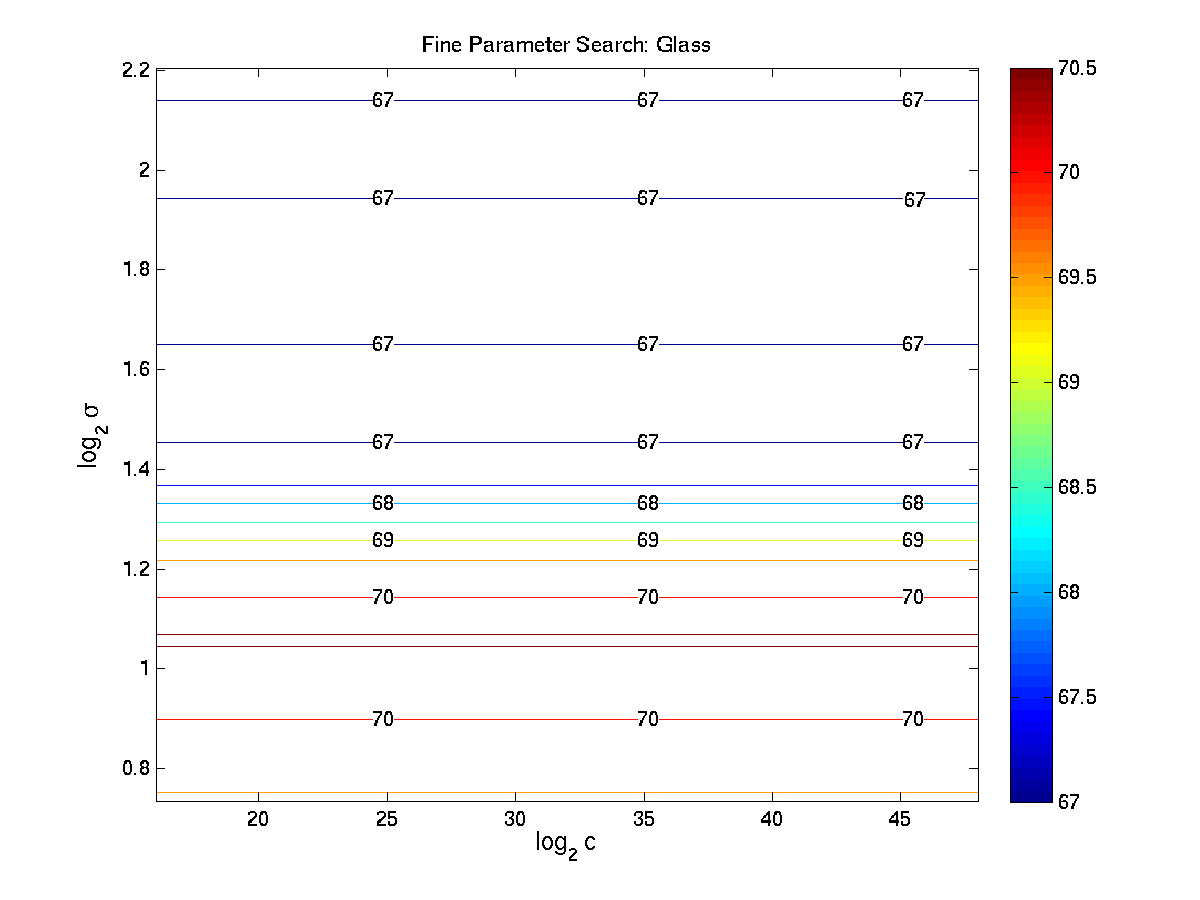
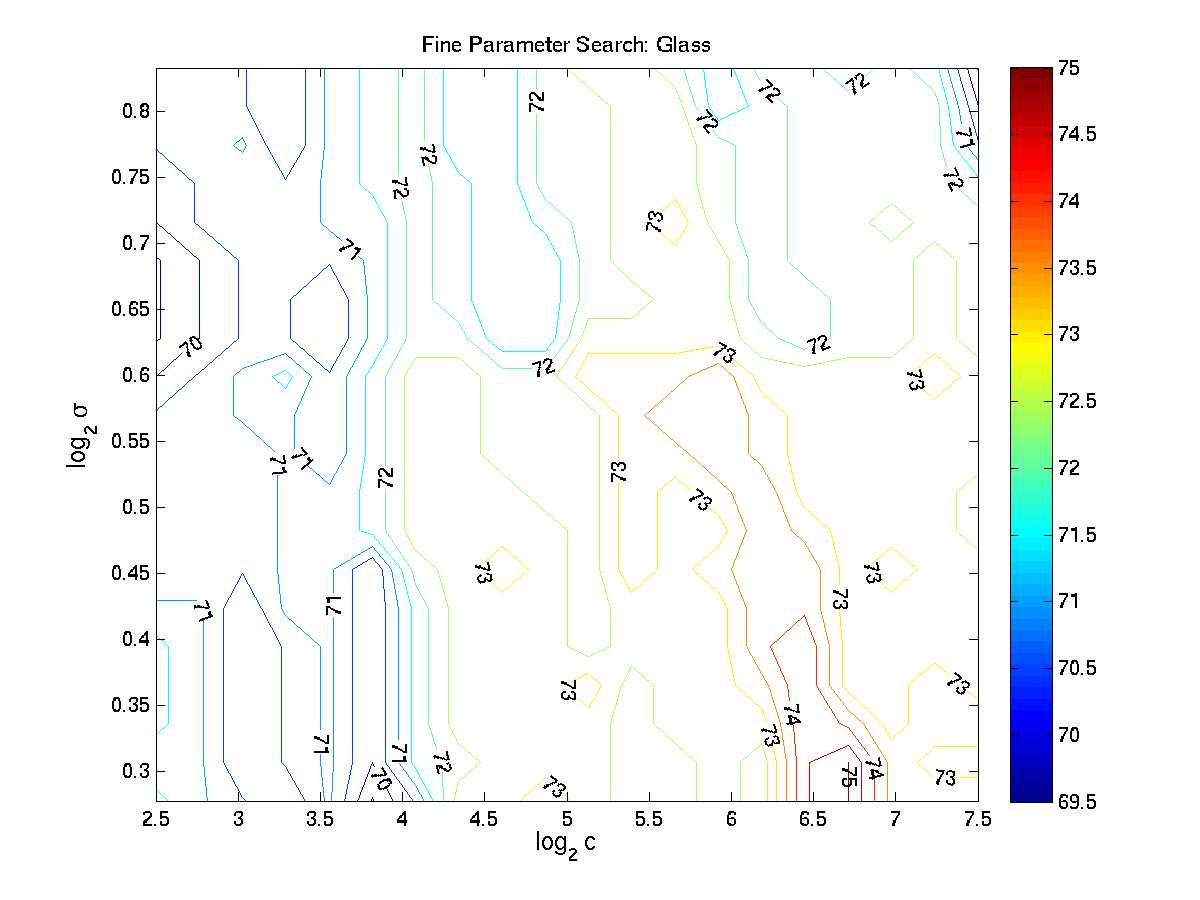
Fixed the bug in Part1

diff --git a/trunk/CS-528/Project4-SVM/Part1.m b/trunk/CS-528/Project4-SVM/Part1.m
@@ -4,13 +4,12 @@
 % Using LibSVM to find ideal C and gamma values
 SVMMatlabSetup
 ProjectSetup
-f = fopen('GridSearchOutput.txt','w');
+f = fopen('CoarseGridSearchOutput.dat','w');
 
 %% Corse Grid Search
 n  = 10;
-fprintf(f,'Coarse Grid Search with %d values\n',n^2);
-fprintf(f,'Coarse Grid Search\n');
-fprintf(f,'\t\t\tDataSet\t\t\t\tminC\tmaxC\tminG\tmaxGAccuracy\tg\t\tc\n');
+fprintf(f,'Data Set & $C_{min}$ & $C_{max}$ & $\\sigma_{min}$ & $\\sigma_{max}$ & $C$ & $\\sigma$ & $\\epsilon$ \\\\ \n');
+fprintf(f,'\\hline\n');
 c_coarse = zeros(size(dataSets));
 g_coarse = zeros(size(dataSets));
 i = 1;
@@ -26,8 +25,8 @@ for data = dataSets
   
     
     % Writing the values
-    fprintf(f,'%s\t%5.3e\t%5.3e\t%5.3e\t%5.3e\t%5.3e\t%5.3e\t%5.3e\n',...
-        setNames{i},min(c),max(c),min(g),max(g),cv,c_coarse(i),g_coarse(i));
+    fprintf(f,'%s & %3.2f & %3.2f & %3.2f & %3.2f & %3.2f & %3.2f & %3.2f \\\\ \n',...
+        setNames{i},min(c),max(c),min(g),max(g),c_coarse(i),g_coarse(i),cv);
     
     % Save the figure
     title(sprintf('Coarse Parameter Search: %s',setNames{i}));
@@ -36,14 +35,16 @@ for data = dataSets
     
     i = i + 1;
 end
+fclose(f);
 
 %% Fine Grid Search
+f = fopen('FineGridSearchOutput.dat','w');
 c_fine = zeros(size(dataSets));
 g_fine = zeros(size(dataSets));
 i = 1;
-n  = 10;
-fprintf(f,'\nFine Grid Search with %d values\n',n^2);
-fprintf(f,'\t\t\tDataSet\t\t\t\tminC\tmaxC\tminG\tmaxGAccuracy\tg\t\tc\n');
+n  = 20;
+fprintf(f,'Data Set & $C_{min}$ & $C_{max}$ & $\\sigma_{min}$ & $\\sigma_{max}$ & $C$ & $\\sigma$ & $\\epsilon$ \\\\ \n');
+fprintf(f,'\\hline\n');
 for data = dataSets
     fprintf(1,'Processing data set: %s\n',cell2mat(dataSets(i)));
     % Reading in the data
@@ -56,8 +57,9 @@ for data = dataSets
     [cv,c_fine(i),g_fine(i)] = gridParam(c,g,label,inst);
     
     % Writing the values
-    fprintf(f,'%s\t%5.3e\t%5.3e\t%5.3e\t%5.3e\t%5.3e\t%5.3e\t%5.3e\n',...
-        setNames{i},min(c),max(c),min(g),max(g),cv,c_fine(i),g_fine(i));
+
+    fprintf(f,'%s & %3.2f & %3.2f & %3.2f & %3.2f & %3.2f & %3.2f & %3.2f \\\\ \n',...
+        setNames{i},min(c),max(c),min(g),max(g),c_fine(i),g_fine(i),cv);
     
     % Save the figure
     title(sprintf('Fine Parameter Search: %s',setNames{i}));
@@ -65,6 +67,5 @@ for data = dataSets
     print(gcf,'-dpng',filename);
     i = i + 1;
 end
-
-%% Probably need to do validation
 fclose(f);
+%% Probably need to do validation

diff --git a/trunk/CS-528/Project4-SVM/writeup/Results.tex b/trunk/CS-528/Project4-SVM/writeup/Results.tex
@@ -6,29 +6,28 @@
 The parameter search for the optimal C and $\sigma$ parameters is shown in the contour plots of Figures \ref{fig:ParamLiver}, \ref{fig:ParamGlass} and \ref{fig:ParamGlass}.
 The optimal classifier parameters are shown for the coarse parameter search in Table \ref{tab:CoarseParamValues} and for the fine parameter search in Table \ref{tab:FineParamValues}.
 \todo{Make some quantifications and discuss the data}
-\begin{table}[ht!]
+\begin{table}[h!]
 \caption{Coarse Optimal Classifier Parameters}
 \label{tab:CoarseParamValues}
 \begin{tabular}{c c c c c c c c}
 \hline
-Data Set & $C_{min}$ & $C_{max}$ & $\sigma_{min}$ & $\sigma_{max}$ & $C$ & $\sigma$ & $\epsilon$ \\
+Data Set & $C_{min}$ & $C_{max}$ & $\sigma_{min}$ & $\sigma_{max}$ & $C$ & $\sigma$ & $\epsilon$ \\ 
 \hline
-Glass &	-5.0 &  5.0 &	-5.0 &	5.0 & 32.0 &	1.47 & 73 \\
-Liver &	-5.0 &	5.0 &	-5.0 &	5.0 & 14.8 &	0.146 & 74 \\
-Vowel &	-5.0 &	5.0 &	-5.0 &	5.0 & 32.0 &	6.85  & 99 \\
+Glass & -5.00 & 5.00 & -5.00 & 5.00 & 5.00 & 0.56 & 72.78 \\ 
+Liver & -5.00 & 5.00 & -5.00 & 5.00 & 3.89 & -2.78 & 74.33 \\ 
+Vowel & -5.00 & 5.00 & -5.00 & 5.00 & 5.00 & 2.78 & 99.24 \\ 
 \hline
 \end{tabular}
 \end{table}
-\begin{table}[ht!]
+\begin{table}[ht]
 \caption{Fine Optimal Classifier Parameters}
 \label{tab:FineParamValues}
 \begin{tabular}{c c c c c c c c}
+Data Set & $C_{min}$ & $C_{max}$ & $\sigma_{min}$ & $\sigma_{max}$ & $C$ & $\sigma$ & $\epsilon$ \\ 
 \hline
-Data Set & $C_{min}$ & $C_{max}$ & $\sigma_{min}$ & $\sigma_{max}$ & $C$ & $\sigma$ & $\epsilon$ \\
-\hline
-Glass & 16.0 &	48.0 &	0.735 & 2.20 & 2.815e+14	& 2.09 & 70.6 \\
-Liver & 7.41 &	22.2 &	0.0729 & 0.218 &	1.697e+02 &	1.11 & 68.0 \\
-Vowel & 16.0 &	48.0 & 3.43 & 10.3 &	2.815e+14 &	10.7 & 96.9 \\
+Glass & 2.50 & 7.50 & 0.28 & 0.83 & 6.71 & 0.31 & 75.00 \\ 
+Liver & 1.94 & 5.83 & -4.17 & -1.39 & 3.79 & -1.68 & 75.67 \\ 
+Vowel & 2.50 & 7.50 & 1.39 & 4.17 & 7.50 & 1.97 & 99.43 \\ 
 \hline
 \end{tabular}
 \end{table}

diff --git a/trunk/CS-528/Project4-SVM/writeup/murffer-Project4-Paper.tex b/trunk/CS-528/Project4-SVM/writeup/murffer-Project4-Paper.tex
@@ -61,9 +61,10 @@
 \usepackage{algorithm}
 \algnewcommand{\algorithmicgoto}{\textbf{go to}}%
 \algnewcommand{\Goto}[1]{\algorithmicgoto~\ref{#1}}
+
 % *** ALIGNMENT PACKAGES ***
 \usepackage{array}
-
+\usepackage{pgfplotstable}
 %%%%%%%%%%%%%%%%%%%%%%%%%%%%%%%%%%%%%%%%%%%%%%%%%%%%%%%%%%%%%%%%%%%%%%%%%%%%%%%%
 %                                                                              %
 %                               START OF DOCUMENT                              %

diff --git a/trunk/CS-528/Project4-SVM/gridParam.m b/trunk/CS-528/Project4-SVM/gridParam.m
@@ -28,7 +28,7 @@ for log2c = c,
     cv = svmtrain([],label, inst, cmd);     % Ignore the first argument (no weights)
     results(i,j) = cv;
     if (cv >= bestcv),
-      bestcv = cv; bestc = 2^log2c; bestg = 2^log2g;
+      bestcv = cv; bestc = log2c; bestg = log2g;
     end
   end
 end
